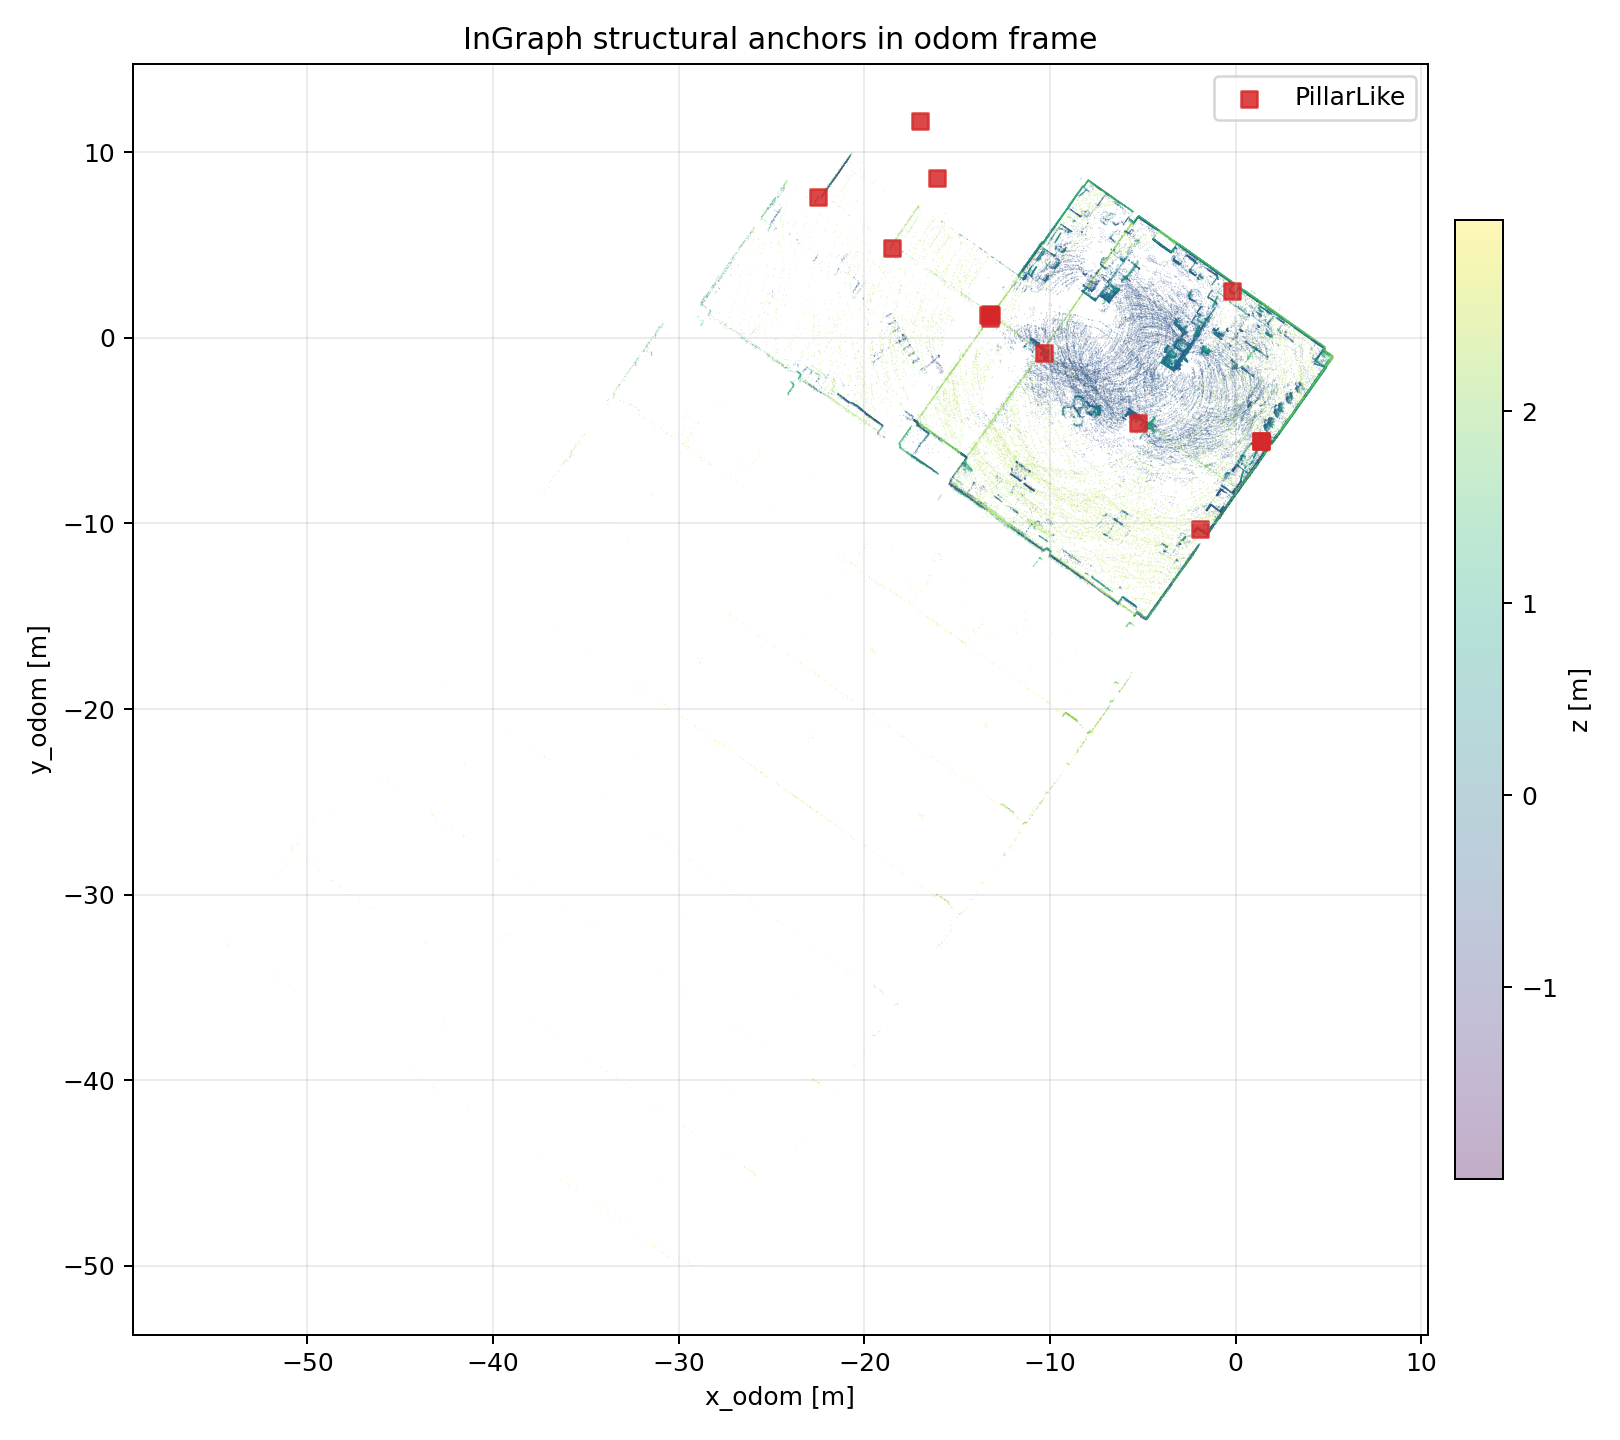
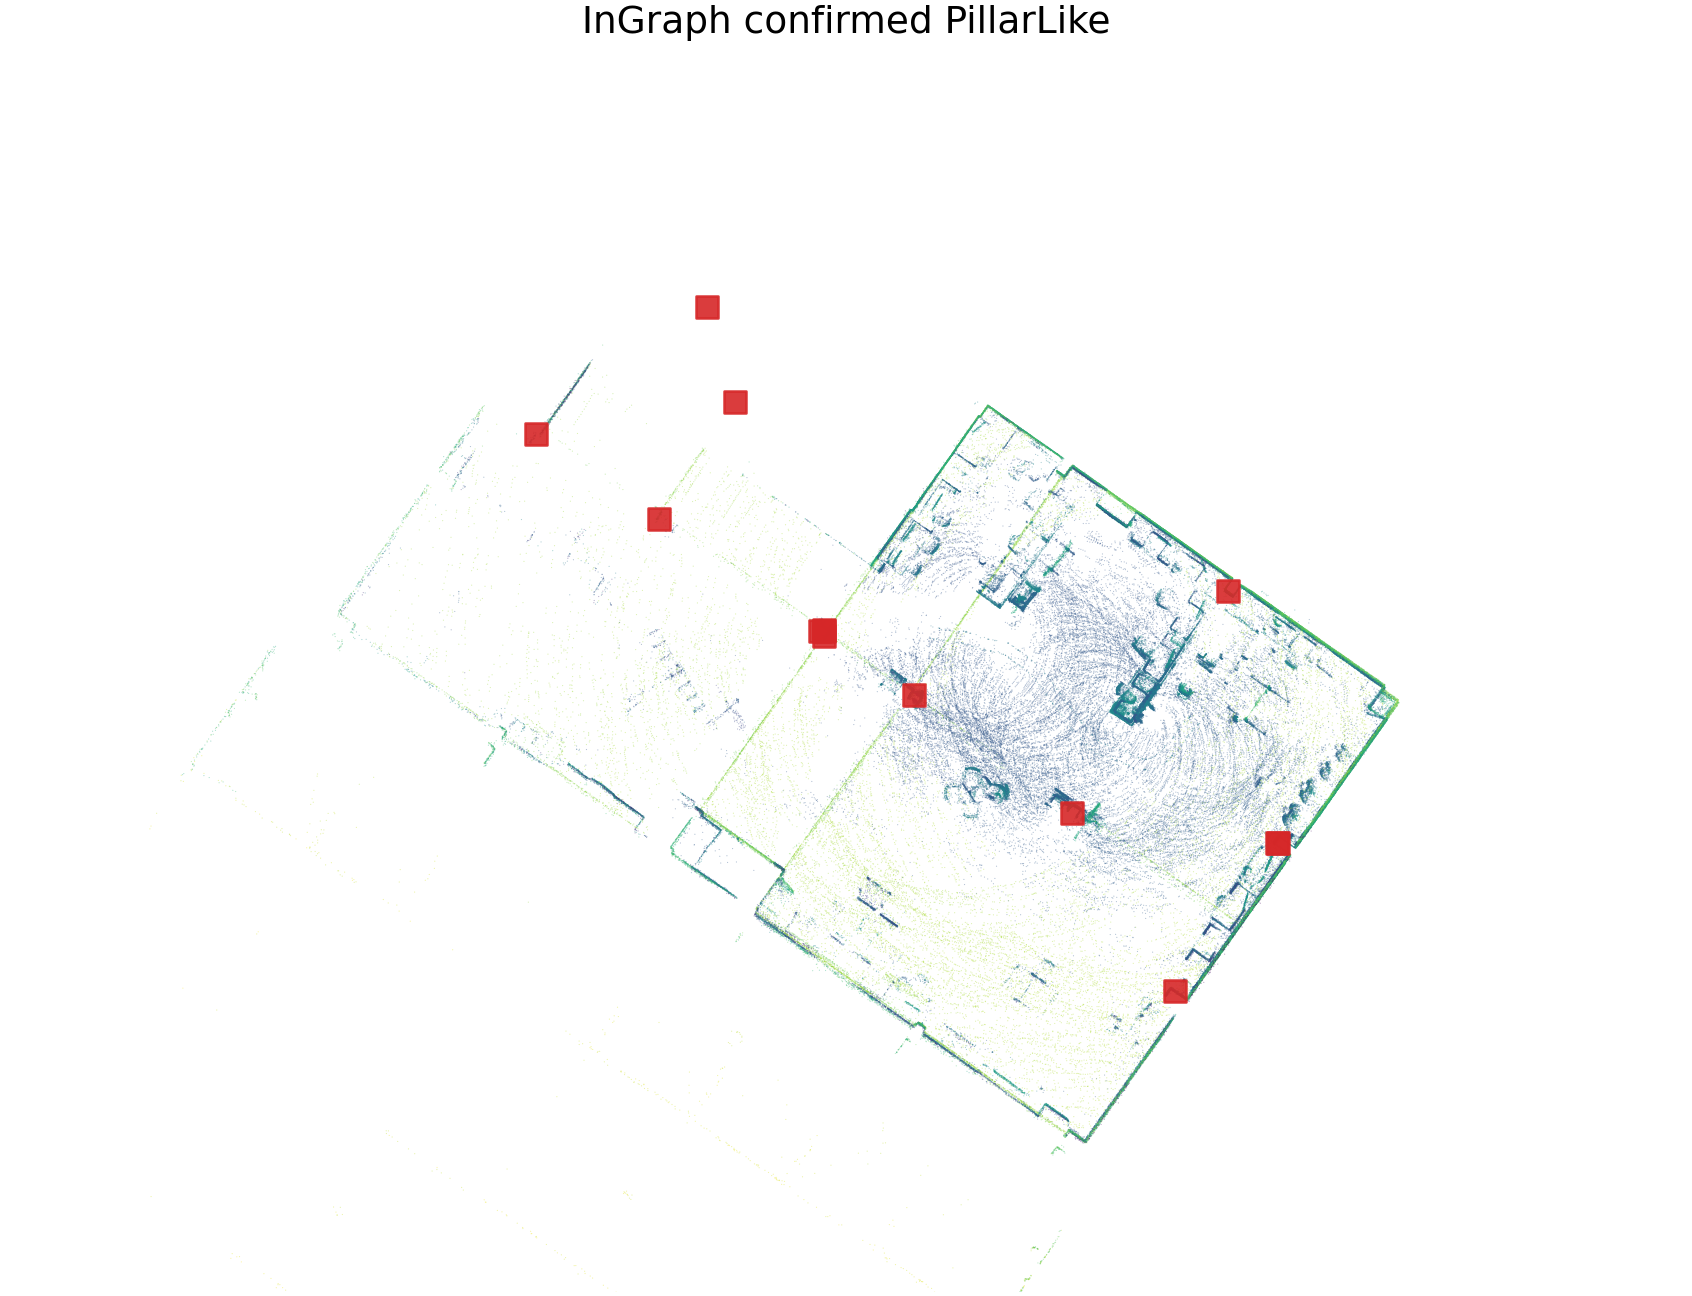
Ready results for analysis

diff --git a/ral_step7a/scripts/plot_ingraph_structure_overlay.py b/ral_step7a/scripts/plot_ingraph_structure_overlay.py
@@ -217,21 +217,26 @@ def plot_scene(
     pipes: list[dict[str, float | str | int | bool]],
     output: Path,
     title: str,
+    xlim: tuple[float, float] | None,
+    ylim: tuple[float, float] | None,
+    paper: bool,
+    show_ids: bool,
 ) -> None:
-    fig, ax = plt.subplots(figsize=(9.0, 8.0))
+    fig, ax = plt.subplots(figsize=(9.4, 7.2))
     if points is not None:
         scatter = ax.scatter(
             points[:, 0],
             points[:, 1],
             c=points[:, 2],
-            s=0.18,
+            s=0.22,
             cmap="viridis",
-            alpha=0.32,
+            alpha=0.38,
             linewidths=0,
             rasterized=True,
         )
-        colorbar = fig.colorbar(scatter, ax=ax, fraction=0.035, pad=0.02)
-        colorbar.set_label("z [m]")
+        if not paper:
+            colorbar = fig.colorbar(scatter, ax=ax, fraction=0.035, pad=0.02)
+            colorbar.set_label("z [m]")
 
     max_age = max((int(segment["age"]) for segment in wall_segments), default=1)
     for segment in wall_segments:
@@ -240,28 +245,36 @@ def plot_scene(
         dx = float(segment["dx"])
         dy = float(segment["dy"])
         half = 0.5 * float(segment["length"])
-        linewidth = 1.4 + 3.4 * min(int(segment["age"]) / max(max_age, 1), 1.0)
+        linewidth = 2.2 + 4.0 * min(int(segment["age"]) / max(max_age, 1), 1.0)
         alpha = 0.95 if bool(segment["strong"]) else 0.55
         ax.plot([cx - half * dx, cx + half * dx], [cy - half * dy, cy + half * dy], linewidth=linewidth, alpha=alpha)
-        ax.scatter([cx], [cy], s=20, color="black", alpha=0.75)
-        label = f"W:{segment['track_id']}"
-        if bool(segment["strong"]):
-            label += "*"
-        ax.text(cx, cy, label, fontsize=7, ha="left", va="bottom")
+        if show_ids:
+            ax.scatter([cx], [cy], s=18, color="black", alpha=0.75)
+            label = f"W:{segment['track_id']}"
+            if bool(segment["strong"]):
+                label += "*"
+            ax.text(cx, cy, label, fontsize=7, ha="left", va="bottom")
 
     if pillars:
-        ax.scatter([float(a["cx"]) for a in pillars], [float(a["cy"]) for a in pillars], marker="s", s=42, color="#d62728", alpha=0.85, label="PillarLike")
+        ax.scatter([float(a["cx"]) for a in pillars], [float(a["cy"]) for a in pillars], marker="s", s=72, color="#d62728", alpha=0.9, label="PillarLike")
     if pipes:
         ax.scatter([float(a["cx"]) for a in pipes], [float(a["cy"]) for a in pipes], marker="x", s=54, color="#111111", alpha=0.85, label="PipeLike")
-    if pillars or pipes:
+    if (pillars or pipes) and not paper:
         ax.legend(loc="best")
 
-    ax.set_title(title)
-    ax.set_xlabel("x_odom [m]")
-    ax.set_ylabel("y_odom [m]")
-    ax.axis("equal")
-    ax.grid(True, alpha=0.25)
-    fig.tight_layout()
+    ax.set_title(title, fontsize=15)
+    if xlim:
+        ax.set_xlim(*xlim)
+    if ylim:
+        ax.set_ylim(*ylim)
+    ax.set_aspect("equal", adjustable="box")
+    if paper:
+        ax.axis("off")
+    else:
+        ax.set_xlabel("x_odom [m]")
+        ax.set_ylabel("y_odom [m]")
+        ax.grid(True, alpha=0.25)
+    fig.tight_layout(pad=0.15)
     output.parent.mkdir(parents=True, exist_ok=True)
     fig.savefig(output, dpi=180)
     plt.close(fig)
@@ -331,7 +344,11 @@ def parse_args() -> argparse.Namespace:
     parser.add_argument("--min-z", default=-2.0, type=float)
     parser.add_argument("--max-z", default=3.0, type=float)
     parser.add_argument("--max-points", default=450000, type=int)
-    parser.add_argument("--title", default="InGraph structural anchors in odom frame")
+    parser.add_argument("--title", default="")
+    parser.add_argument("--xlim", nargs=2, type=float, metavar=("XMIN", "XMAX"))
+    parser.add_argument("--ylim", nargs=2, type=float, metavar=("YMIN", "YMAX"))
+    parser.add_argument("--paper", action="store_true", help="Hide axes, grid, and colorbar for article figures.")
+    parser.add_argument("--show-ids", action="store_true", help="Show track IDs next to anchors.")
     return parser.parse_args()
 
 
@@ -351,7 +368,31 @@ def main() -> None:
     points = None
     if args.bag:
         points = sample_lidar_points(args.bag, args.topic, args.max_messages, max(args.point_stride, 1), args.min_z, args.max_z, args.max_points)
-    plot_scene(points, walls, pillars, pipes, args.output, args.title)
+    title = args.title
+    if not title:
+        class_label = " + ".join(
+            label
+            for cls, label in (
+                ("wall_like", "WallLike"),
+                ("pillar_like", "PillarLike"),
+                ("pipe_like", "PipeLike"),
+            )
+            if cls in classes
+        )
+        mode_label = "ever-strong" if args.snapshot == "latest_strong" else args.mode
+        title = f"InGraph {mode_label} {class_label}"
+    plot_scene(
+        points,
+        walls,
+        pillars,
+        pipes,
+        args.output,
+        title,
+        tuple(args.xlim) if args.xlim else None,
+        tuple(args.ylim) if args.ylim else None,
+        args.paper,
+        args.show_ids,
+    )
     if args.summary:
         write_summary(groups, tracks, walls, pillars, pipes, args.summary, args.mode, args.min_age, args.snapshot, classes)
     print(f"WallLike plotted: {len(walls)}")

diff --git a/ral_step7a/scripts/plot_sgraphs_lidar_overlay.py b/ral_step7a/scripts/plot_sgraphs_lidar_overlay.py
@@ -192,21 +192,26 @@ def plot_overlay(
     output: Path,
     title: str,
     segment_frame: str,
+    xlim: tuple[float, float] | None,
+    ylim: tuple[float, float] | None,
+    paper: bool,
+    show_ids: bool,
 ) -> None:
-    fig, ax = plt.subplots(figsize=(9.0, 8.0))
+    fig, ax = plt.subplots(figsize=(9.4, 7.2))
 
     scatter = ax.scatter(
         points[:, 0],
         points[:, 1],
         c=points[:, 2],
-        s=0.18,
+        s=0.22,
         cmap="viridis",
-        alpha=0.35,
+        alpha=0.38,
         linewidths=0,
         rasterized=True,
     )
-    colorbar = fig.colorbar(scatter, ax=ax, fraction=0.035, pad=0.02)
-    colorbar.set_label("z [m]")
+    if not paper:
+        colorbar = fig.colorbar(scatter, ax=ax, fraction=0.035, pad=0.02)
+        colorbar.set_label("z [m]")
 
     max_observations = max((int(segment["observations"]) for segment in segments), default=1)
     for segment in segments:
@@ -221,18 +226,26 @@ def plot_overlay(
         y0 = cy - half * dy
         x1 = cx + half * dx
         y1 = cy + half * dy
-        linewidth = 1.8 + 3.2 * min(observations / max_observations, 1.0)
+        linewidth = 2.2 + 4.0 * min(observations / max_observations, 1.0)
 
         ax.plot([x0, x1], [y0, y1], linewidth=linewidth, alpha=0.92)
-        ax.scatter([cx], [cy], s=18, color="black", alpha=0.78)
-        ax.text(cx, cy, str(segment["label"]), fontsize=8, ha="left", va="bottom")
+        if show_ids:
+            ax.scatter([cx], [cy], s=18, color="black", alpha=0.78)
+            ax.text(cx, cy, str(segment["label"]), fontsize=8, ha="left", va="bottom")
 
-    ax.set_title(title)
-    ax.set_xlabel(f"x_{segment_frame} / odom-aligned LiDAR x [m]")
-    ax.set_ylabel(f"y_{segment_frame} / odom-aligned LiDAR y [m]")
-    ax.axis("equal")
-    ax.grid(True, alpha=0.25)
-    fig.tight_layout()
+    ax.set_title(title, fontsize=15)
+    if xlim:
+        ax.set_xlim(*xlim)
+    if ylim:
+        ax.set_ylim(*ylim)
+    ax.set_aspect("equal", adjustable="box")
+    if paper:
+        ax.axis("off")
+    else:
+        ax.set_xlabel(f"x_{segment_frame} / odom-aligned LiDAR x [m]")
+        ax.set_ylabel(f"y_{segment_frame} / odom-aligned LiDAR y [m]")
+        ax.grid(True, alpha=0.25)
+    fig.tight_layout(pad=0.15)
     output.parent.mkdir(parents=True, exist_ok=True)
     fig.savefig(output, dpi=180)
     plt.close(fig)
@@ -265,9 +278,13 @@ def parse_args() -> argparse.Namespace:
     )
     parser.add_argument(
         "--title",
-        default="LiDAR cloud with S-Graphs wall-plane hypotheses in odom frame",
+        default="S-Graphs persistent wall planes",
         help="Figure title.",
     )
+    parser.add_argument("--xlim", nargs=2, type=float, metavar=("XMIN", "XMAX"))
+    parser.add_argument("--ylim", nargs=2, type=float, metavar=("YMIN", "YMAX"))
+    parser.add_argument("--paper", action="store_true", help="Hide axes, grid, and colorbar for article figures.")
+    parser.add_argument("--show-ids", action="store_true", help="Show plane IDs next to segments.")
     return parser.parse_args()
 
 
@@ -287,7 +304,17 @@ def main() -> None:
     title = args.title
     if segment_frame == "map":
         title = f"{title} (S-Graphs segments in map frame)"
-    plot_overlay(points, segments, args.output, title, segment_frame)
+    plot_overlay(
+        points,
+        segments,
+        args.output,
+        title,
+        segment_frame,
+        tuple(args.xlim) if args.xlim else None,
+        tuple(args.ylim) if args.ylim else None,
+        args.paper,
+        args.show_ids,
+    )
     print(f"LiDAR points plotted: {len(points)}")
     print(f"S-Graphs segments plotted: {len(segments)}")
     print(f"S-Graphs segment frame: {segment_frame}")

diff --git a/ral_step7a/runs/ingraph_20260601_195923/COMPARISON_TO_SGRAPHS.md b/ral_step7a/runs/ingraph_20260601_195923/COMPARISON_TO_SGRAPHS.md
@@ -93,6 +93,14 @@ S-Graphs baseline used in the panel:
 - `../spot_dinamicaStaticV0_sgraphs_standard_optimized_old_002/sgraphs_wall_plane_summary.csv`
 - `../spot_dinamicaStaticV0_sgraphs_standard_optimized_old_002/README.md`
 
+Figure style:
+
+- Article overlays use a shared crop around the mapped structure:
+  `x=[-35, 10]`, `y=[-20, 20]` in the plotted odom-aligned frame.
+- Grid, odometry axes, axis labels, and z colorbar are hidden to increase overlay visibility.
+- Segment/track IDs are kept at the segment centroids because they are useful for tracing hypotheses back to the CSV summaries.
+- Standalone centroid-only S-Graphs figures were removed because they do not add evidence beyond the overlay.
+
 ## Current evidence
 
 S-Graphs optimized baseline:
